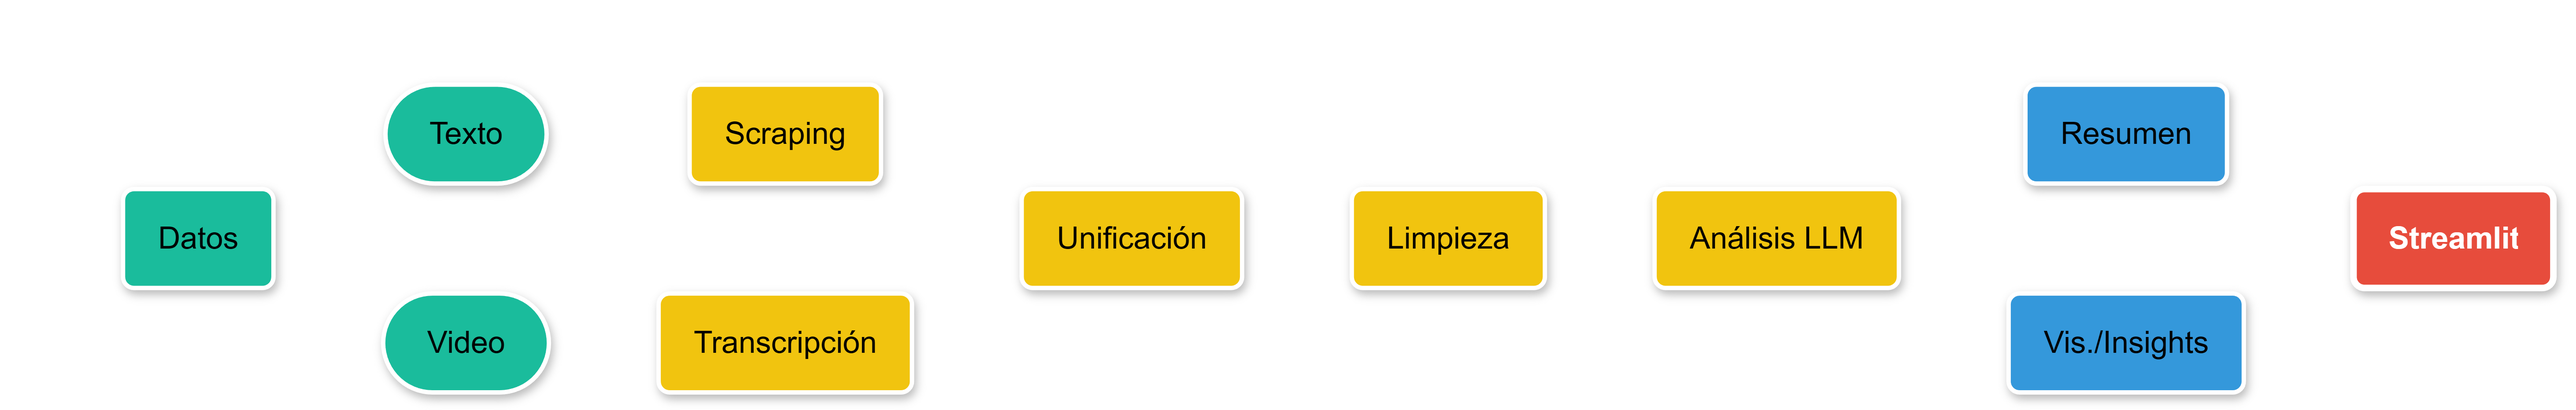
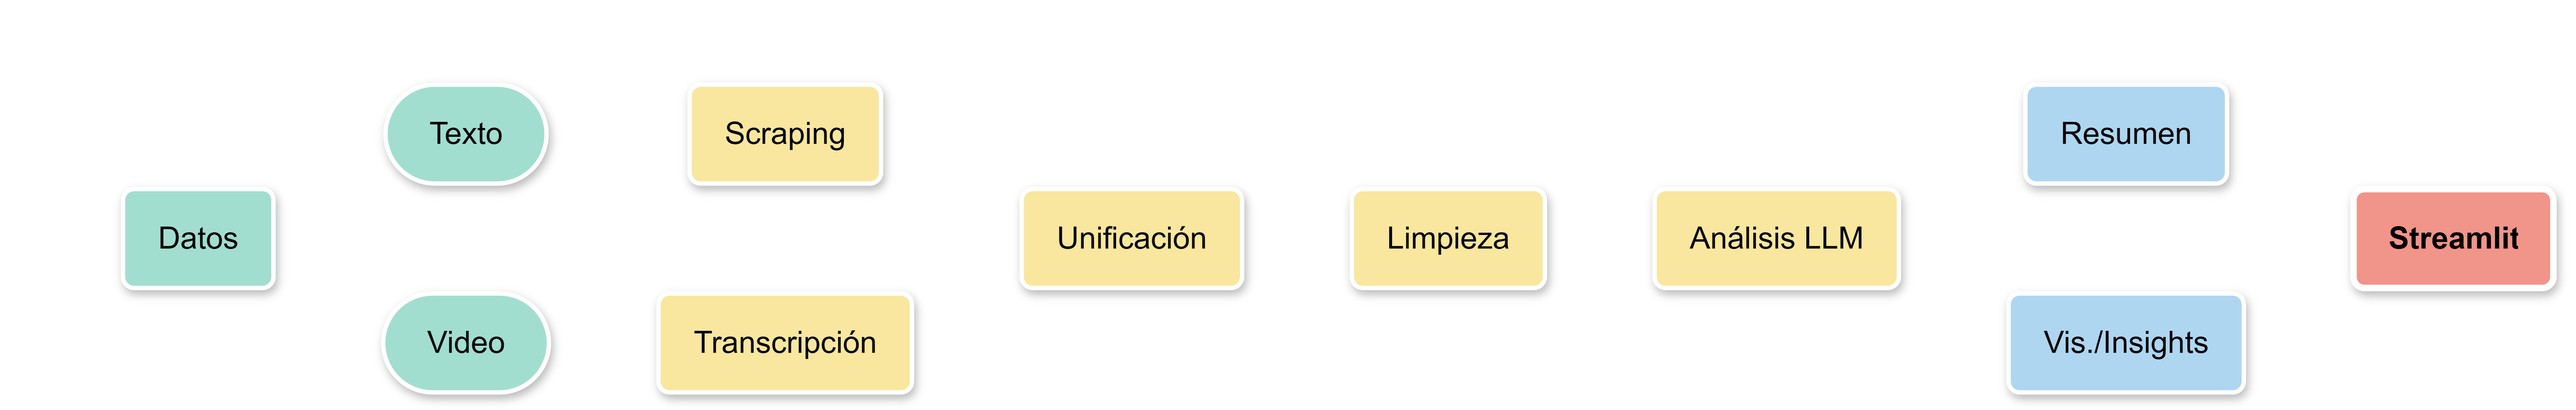
TFM 2:  Resumen multimodal de investigación

diff --git a/README.md b/README.md
@@ -1,5 +1,4 @@
-# Análisis Multimodal del Mercado de Snacks Saludables
-
+![Esquema Flujo de trabajo](imagenes/portada_investigacion_snacks_saludables.jpg)
 ## 0. Introducción.
 
 La empresa, especializada en el sector de la alimentación, se enfrenta al desafío de desarrollar una nueva línea de **snacks saludables** que conecte de forma efectiva con las preferencias y expectativas del consumidor moderno. Este mercado ha experimentado un crecimiento significativo en los últimos años, impulsado por hábitos de consumo más conscientes de la salud, la digitalización de la información y la creciente influencia de creadores de contenido en redes sociales.
@@ -40,7 +39,7 @@ El repositorio está organizado de la siguiente manera:
 - `README.md`: Documentación del proyecto y guía de uso.
 
 ## 3. Flujo de trabajo
-El flujo del proyecto se presenta de la siguiente forma:
+Este proyecto sigue un flujo de análisis multimodal integral, desde la extracción y transcripción de fuentes heterogéneas hasta el procesamiento con LLMs, generando resúmenes y visualizaciones interactivas en Streamlit:
 ![Esquema Flujo de trabajo](imagenes/esquema_flujo.png)
 
 ## 4. Extracción de datos
